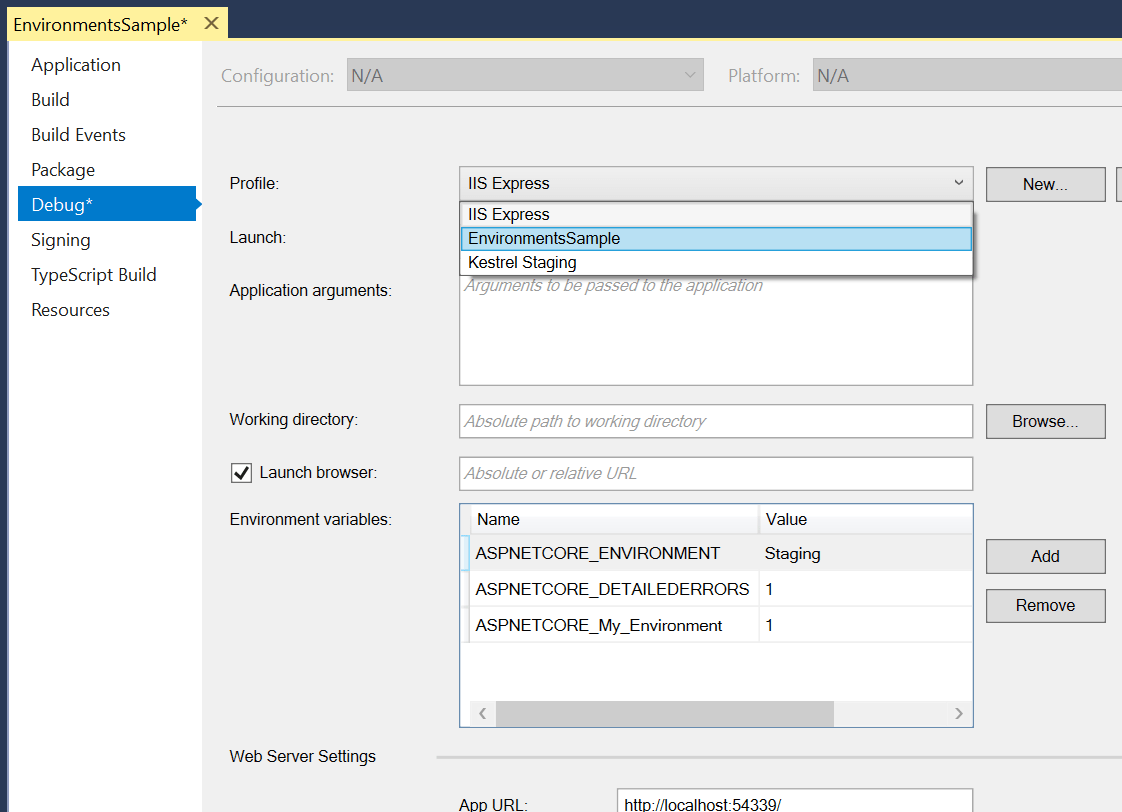
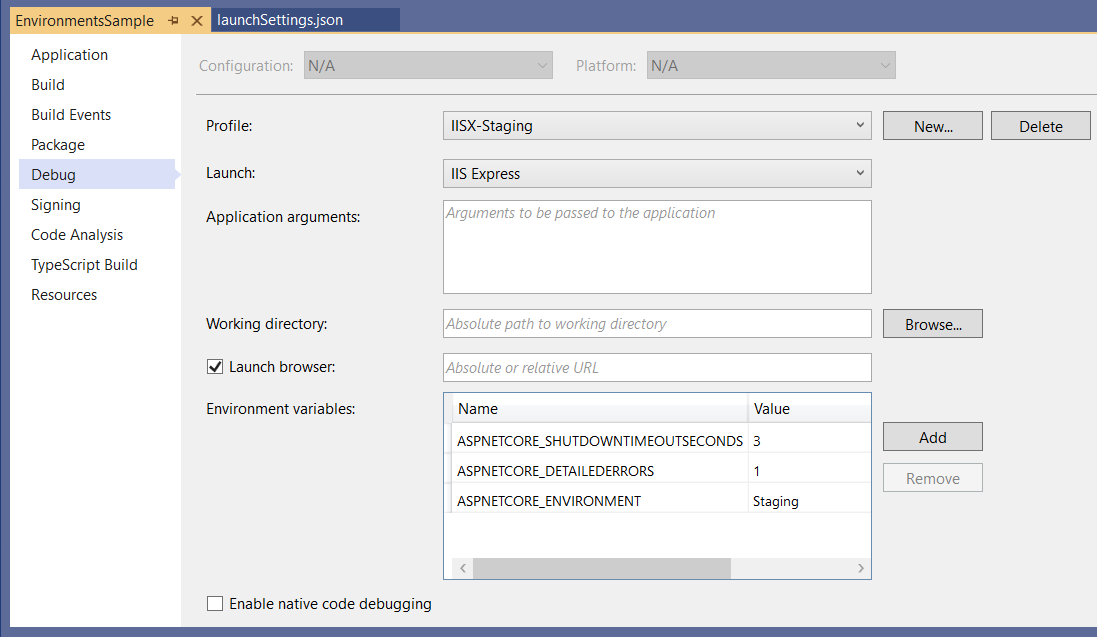
work

diff --git a/aspnetcore/fundamentals/environments.md b/aspnetcore/fundamentals/environments.md
@@ -37,9 +37,9 @@ The [Environment Tag Helper](xref:mvc/views/tag-helpers/builtin-th/environment-t
 
 [!code-cshtml[](environments/sample-snapshot/EnvironmentsSample/Pages/About.cshtml)]
 
-The [About page](https://github.com/dotnet/AspNetCore.Docs/tree/master/aspnetcore/fundamentals/environments/3.1sample/EnvironmentsSample/Pages/About.cshtml) from the [sample code](https://github.com/dotnet/AspNetCore.Docs/tree/master/aspnetcore/fundamentals/environments/3.1sample) displays the value of `IWebHostEnvironment.EnvironmentName`.
+The [About page](https://github.com/dotnet/AspNetCore.Docs/tree/master/aspnetcore/fundamentals/environments/3.1sample/EnvironmentsSample/Pages/About.cshtml) from the [sample code](https://github.com/dotnet/AspNetCore.Docs/tree/master/aspnetcore/fundamentals/environments/3.1sample) includes the preceding markup and displays the value of `IWebHostEnvironment.EnvironmentName`.
 
-On Windows and macOS, environment variables and values aren't case sensitive. Linux environment variables and values are **case sensitive** by default.
+On Windows and macOS, environment variables and values aren't case-sensitive. Linux environment variables and values are **case-sensitive** by default.
 
 ### Create EnvironmentsSample
 
@@ -92,13 +92,15 @@ The preceding markup contains two profiles:
 
 The value of `commandName` can specify the web server to launch. `commandName` can be any one of the following:
 
-* `IISExpress` : launches IIS Express.
+* `IISExpress` : Launches IIS Express.
 * `IIS` : No web server launched. IIS is expected to be available.
-* `Project` : launches Kestrel.
+* `Project` : Launches Kestrel.
 
 The Visual Studio project properties **Debug** tab provides a GUI to edit the *launchSettings.json* file. Changes made to project profiles may not take effect until the web server is restarted. Kestrel must be restarted before it can detect changes made to its environment.
 
-The following *launchSettings.json* file contains multiple profiles: 
+![Project Properties Setting Environment variables](environments/_static/project-properties-debug.png)
+
+The following *launchSettings.json* file contains multiple profiles:
 
 [!code-json[](environments/3.1sample/EnvironmentsSample/Properties/launchSettings.json)]
 
@@ -111,7 +113,7 @@ When using [Visual Studio Code](https://code.visualstudio.com/), environment var
 
 [!code-json[](environments/3.1sample/EnvironmentsSample/.vscode/launch.json?range=4-10,32-38)]
 
-The*.vscode/launch.json* file is only used by Visual Studio Code.
+The *.vscode/launch.json* file is only used by Visual Studio Code.
 
 ### Production
 
@@ -270,7 +272,7 @@ In the following example:
 
 When an ASP.NET Core app starts, the [Startup class](xref:fundamentals/startup) bootstraps the app. The app can define multiple `Startup` classes for different environments. The appropriate `Startup` class is selected at runtime. The class whose name suffix matches the current environment is prioritized. If a matching `Startup{EnvironmentName}` class isn't found, the `Startup` class is used. This approach is useful when the app requires configuring startup for several environments with many code differences per environment. Typical apps will not need this approach.
 
-To implement environment-based `Startup` classes, create a `Startup{EnvironmentName}` class for each environment in use and a fallback `Startup` class:
+To implement environment-based `Startup` classes, create a `Startup{EnvironmentName}` classes and a fallback `Startup` class:
 
 [!code-csharp[](environments/3.1sample/EnvironmentsSample/StartupClassConventions.cs?name=snippet)]
 
@@ -280,7 +282,7 @@ Use the [UseStartup(IWebHostBuilder, String)](/dotnet/api/microsoft.aspnetcore.h
 
 ### Startup method conventions
 
-[Configure](/dotnet/api/microsoft.aspnetcore.hosting.startupbase.configure) and [ConfigureServices](/dotnet/api/microsoft.aspnetcore.hosting.startupbase.configureservices) support environment-specific versions of the form `Configure<EnvironmentName>` and `Configure<EnvironmentName>Services`. This approach is useful when the app requires configuring startup for several environments with many code differences per environment.
+[Configure](/dotnet/api/microsoft.aspnetcore.hosting.startupbase.configure) and [ConfigureServices](/dotnet/api/microsoft.aspnetcore.hosting.startupbase.configureservices) support environment-specific versions of the form `Configure<EnvironmentName>` and `Configure<EnvironmentName>Services`. This approach is useful when the app requires configuring startup for several environments with many code differences per environment:
 
 [!code-csharp[](environments/3.1sample/EnvironmentsSample/StartupMethodConventions.cs?name=snippet)]
 
@@ -321,7 +323,7 @@ The [Environment Tag Helper](xref:mvc/views/tag-helpers/builtin-th/environment-t
 
 [!code-cshtml[](environments/sample-snapshot/EnvironmentsSample/Pages/About.cshtml)]
 
-On Windows and macOS, environment variables and values aren't case sensitive. Linux environment variables and values are **case sensitive** by default.
+On Windows and macOS, environment variables and values aren't case-sensitive. Linux environment variables and values are **case-sensitive** by default.
 
 ### Development
 
